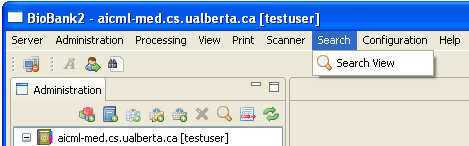
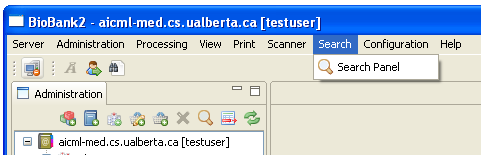
working on overview chapter for java client user guide

diff --git a/docs/javaClientUserGuide/overview.tex b/docs/javaClientUserGuide/overview.tex
@@ -125,6 +125,7 @@ preferences (see section \ref{sec:scanning_and_decoding}).
 \end{description}
 
 \subsection{Search Menu}
+The only item under this menu is the \textbf{Search Panel}.
     \begin{figure}[H]
       \centering
       \scalebox{0.5}
@@ -132,9 +133,68 @@ preferences (see section \ref{sec:scanning_and_decoding}).
       \caption{Search menu.}
       \label{fig:main_menu_search}
     \end{figure}
+Figure \ref{fig:search_panel} shows the search panel in the Adminstration
+view. It is also available in the processing view.
+    \begin{figure}[H]
+      \centering
+      \scalebox{0.5}
+      { \includegraphics*{screenshots/overview/search_panel} }
+      \caption{Search panel.}
+      \label{fig:search_panel}
+    \end{figure}
+The search panel allows the user to search for any of the following:
+\begin{description}
+  \item[An inventory ID] each aliquot has a unique identifier referred to as
+    the inventory ID. This is the decoded value of the 2D barcode for NUNC
+    tubes, the 1D barcode for hair and FTA aliquots, and the 1D barcode for
+    Axygen tubes.
+  \item[An aliquot Position] each aliquot is stored in a unique position. For
+    NUNC tubes it is the well position pre appended with the pallet's labe.
+  \item[Non-active aliquots] Aliquots that have been removed from the inventory
+    are assigned a \emph{Non Active} activity status. When this search is used
+    the list of all aliquots marked as non active is returned.
+  \item[A container label] Each container in the inventory has a position
+    label. The label uses the labeling scheme defined by the parent label.
+  \item[A container's product barcode] Each container in the system has a
+    unique product barcode.
+  \item[A worksheet] Each patient visit has a unique corresponding worksheet in
+    paper form. A patient visit can be searched for using this ID.
+\end{description}
+When an item is searched for the application will: inform you how many items
+were found if there are more than one, or open up a form displaying the
+information for the item. If more than one item is found then a form is opened
+up for each item.
+
+Fox example when searching for an inventory id the \emph{Aliquot View Form} is
+displayed for the aliquot. When searching for a container label, the
+\emph{Container view form} is displayed.
 
 \subsection{Configuration Menu}
+This menu only contains the preferences item. See Chapter
+\ref{chap:configuration} for more details.
+    \begin{figure}[H]
+      \centering
+      \scalebox{0.5}
+      { \includegraphics*{screenshots/overview/main_menu_configuration} }
+      \caption{Configuration menu.}
+      \label{fig:main_menu_configuration}
+    \end{figure}
+
 \subsection{Help Menu}
+The help menu provides access to several functions.
+    \begin{figure}[H]
+      \centering
+      \scalebox{0.5}
+      { \includegraphics*{screenshots/overview/main_menu_help} }
+      \caption{Help menu.}
+      \label{fig:main_menu_help}
+    \end{figure}
 
 \section{Views}
 \label{sec:application_views}
+
+\subsection{Adminsitration View}
+
+\subsection{Processing View}
+
+\subsection{Reports View}
